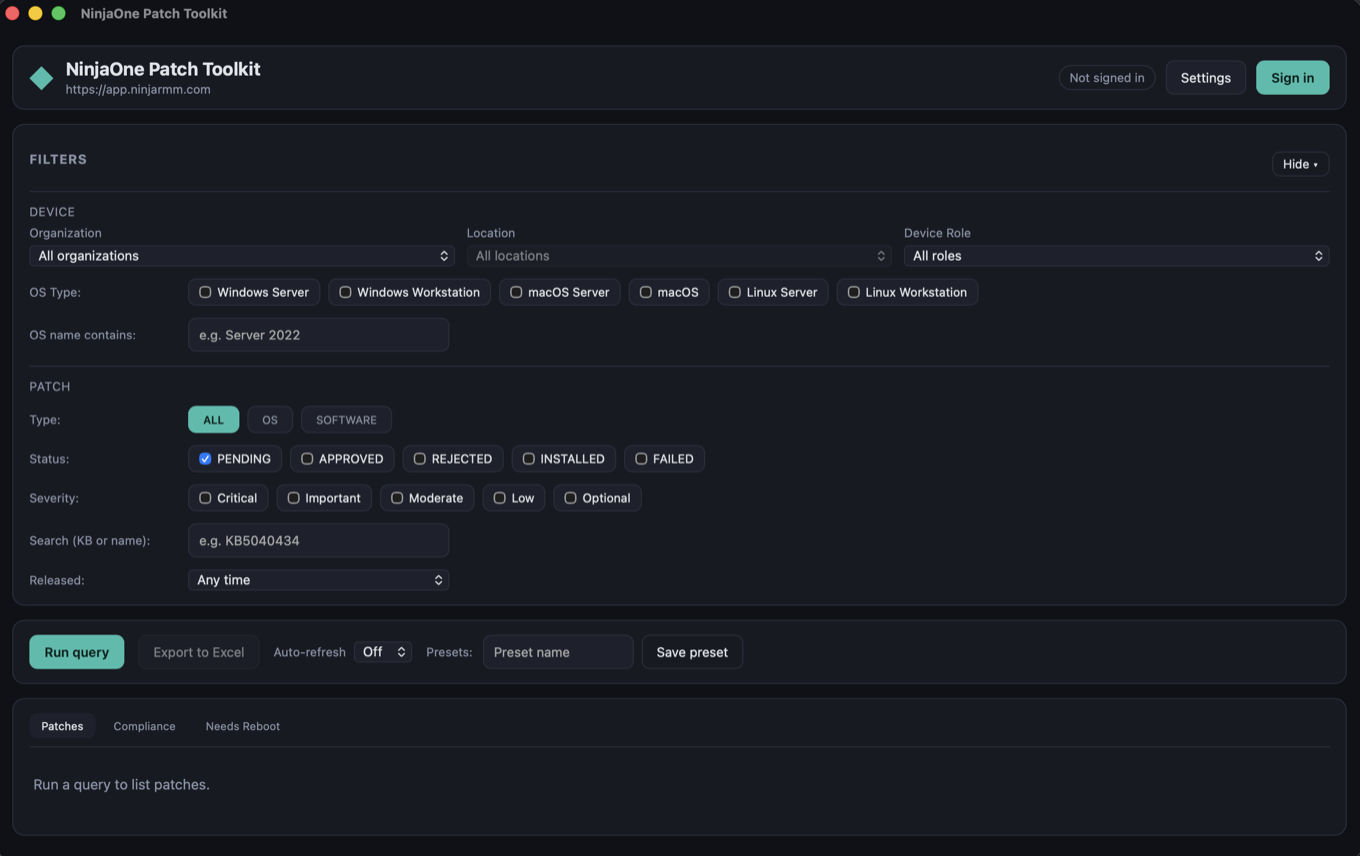
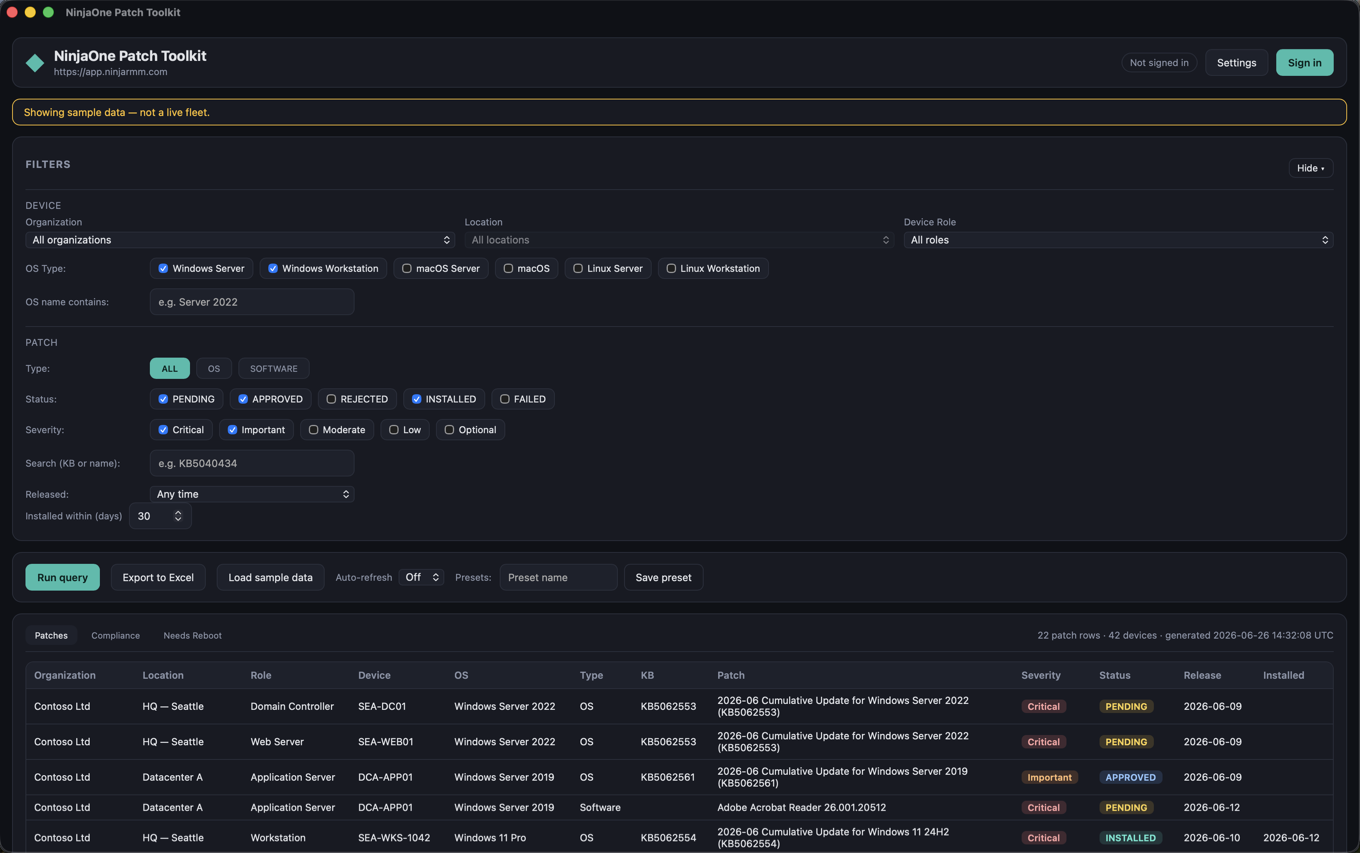
docs: show demo-mode screenshot and link the live web demo
Swap the README screenshot for the populated demo-mode view, add a live-demo
badge + callout pointing at the GitHub Pages URL, and record the feature under
CHANGELOG's Unreleased. Update AGENTS.md (repo map, web-build-pages recipe, and
a gotcha on demo mode / the is_tauri browser guard / the Pages public-url rule).

Claude-Session: https://claude.ai/code/session_01Lm6DUxZUaXRaPFBA4hkGz8

diff --git a/AGENTS.md b/AGENTS.md
@@ -76,12 +76,13 @@ web-rs/                          # Leptos 0.8 CSR frontend — separate wasm32 c
 │   ├── settings.rs              # SettingsPanel
 │   ├── tables.rs                # Results + Patches/Compliance/Reboot tables
 │   └── util.rs                  # JS-free pure helpers (format/parse/CSS-class) + their host tests
-├── src/api.rs                   # typed invoke(...) wrappers (one per backend command)
+├── src/api.rs                   # typed invoke(...) wrappers + is_tauri() browser-mode guard
+├── src/demo.rs                  # pure sample-data builder (QueryResult) for demo / web mode
 ├── src/types.rs                 # request/response types mirrored from the backend
 ├── styles.css                   # plain global CSS (BEM-ish names)
 └── Trunk.toml                   # WASM build/serve (127.0.0.1:8080)
 
-.github/workflows/               # ci.yml · codeql.yml · release.yml
+.github/workflows/               # ci.yml · codeql.yml · pages.yml · release.yml
 ```
 
 ## Common patterns
@@ -118,6 +119,7 @@ just coverage        # backend test coverage (cargo-llvm-cov) → summary + targ
 just web-check       # cargo check the frontend (wasm target)
 just web-test        # frontend pure-helper unit tests (host target; wasm excludes them)
 just web-build       # trunk build → web-rs/dist (debug)
+just web-build-pages # release build with the Pages subpath base href (used by pages.yml)
 
 # Dependency policy:
 just audit           # RustSec advisories — scans BOTH lockfiles (src-tauri + web-rs)
@@ -232,6 +234,20 @@ secrets are **not** stored there — see below).
 
 - **Frontend reactivity is closure-based (Leptos CSR).** `{move || sig.get()}` to track, `.get()` /
   `.with()` to read; state is `RwSignal<T>`. CSS is plain global `web-rs/styles.css`.
+
+- **Demo mode + browser/Pages guard.** The same frontend serves two contexts. Inside Tauri it talks
+  to the backend over IPC; in a plain browser (the GitHub Pages live demo) there is **no** backend.
+  `api::is_tauri()` (checks `window.__TAURI__`) gates this: `invoke` and `on_query_progress` no-op
+  outside Tauri so an undefined global never throws, and `App` startup branches — under Tauri it runs
+  the auth/lookups/settings flow; in a browser it sets `web_mode`, fills the static OS-type facet
+  from `demo::sample_node_classes()`, and calls `load_demo()`. `web-rs/src/demo.rs` is the **only**
+  source of sample data — a pure `QueryResult` builder (no `js_sys`/IPC), so it host-tests via
+  `just web-test`. The "Load sample data" button calls the same `load_demo()`; `web_mode` disables the
+  backend-only actions (sign-in, live query, export). The Pages build (`just web-build-pages`,
+  `.github/workflows/pages.yml`) sets the subpath base href via `--public-url` — **never** put
+  `public_url` in `Trunk.toml`, or Tauri's relative-dist webview breaks. Pages deploys only from
+  `main`; backend features (queries, export, auth) are desktop-only and intentionally inert in the
+  hosted demo.
 
 ## Coding fundamentals
 

diff --git a/CHANGELOG.md b/CHANGELOG.md
@@ -11,6 +11,17 @@ version and start a fresh `[Unreleased]`.
 
 ## [Unreleased]
 
+### Added
+
+- **Demo mode with sample data.** A **Load sample data** button fills the patch,
+  compliance, and needs-reboot views with a representative fictional fleet — no
+  NinjaOne account or sign-in required — so you can explore the UI (and capture
+  screenshots) without exposing real fleet data.
+- **Live web demo.** The frontend now also runs as a browser-only demo published to
+  GitHub Pages at <https://tiredithumans.github.io/ninjaone-patch-toolkit/>; it loads
+  the sample data automatically. Sign-in, live NinjaOne queries, and Excel export
+  need the native backend, so they're disabled in the hosted demo.
+
 ## [0.6.2] - 2026-06-25
 
 ### Added

diff --git a/README.md b/README.md
@@ -3,12 +3,17 @@
 [![CI](https://github.com/tiredithumans/ninjaone-patch-toolkit/actions/workflows/ci.yml/badge.svg)](https://github.com/tiredithumans/ninjaone-patch-toolkit/actions/workflows/ci.yml)
 [![CodeQL](https://github.com/tiredithumans/ninjaone-patch-toolkit/actions/workflows/codeql.yml/badge.svg)](https://github.com/tiredithumans/ninjaone-patch-toolkit/actions/workflows/codeql.yml)
 [![License](https://img.shields.io/badge/license-MIT%20OR%20Apache--2.0-blue.svg)](#license)
+[![Live demo](https://img.shields.io/badge/live%20demo-online-2ea44f?logo=github)](https://tiredithumans.github.io/ninjaone-patch-toolkit/)
 
 A native desktop toolkit (Rust / Leptos / Tauri 2) for patching‑operations teams. It
 authenticates to the NinjaOne Public API with **OAuth 2.0 + PKCE**, filters the fleet,
 lists individual patches per server, and exports to Excel.
 
 ![NinjaOne Patch Toolkit — main window](docs/images/screenshot.png)
+
+> **[▶ Try the live web demo →](https://tiredithumans.github.io/ninjaone-patch-toolkit/)** — the full UI
+> loaded with sample data, right in your browser (no install, no sign-in). Live NinjaOne queries and
+> Excel export need the native backend, so they're disabled in the hosted demo.
 
 ## Features
 